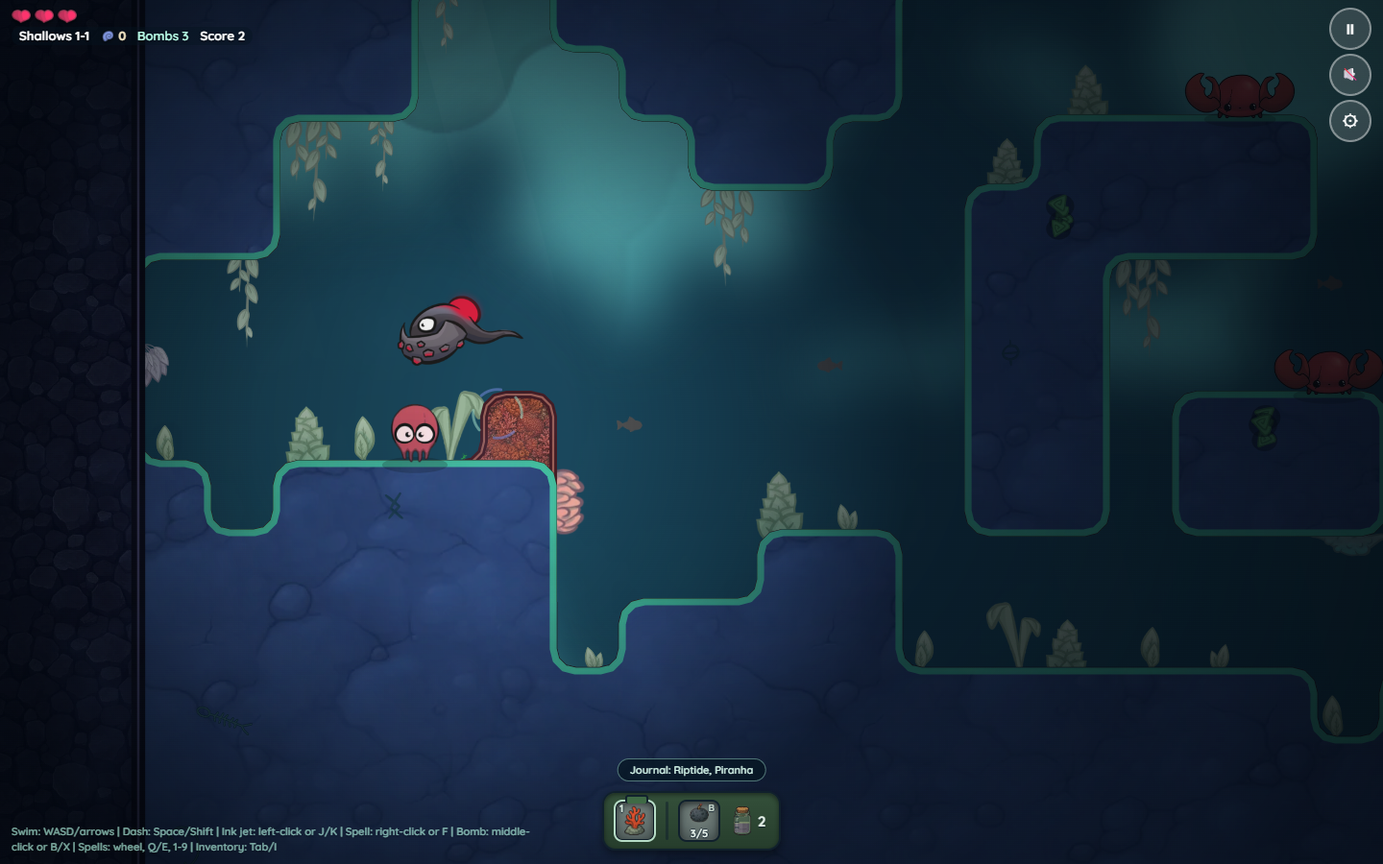
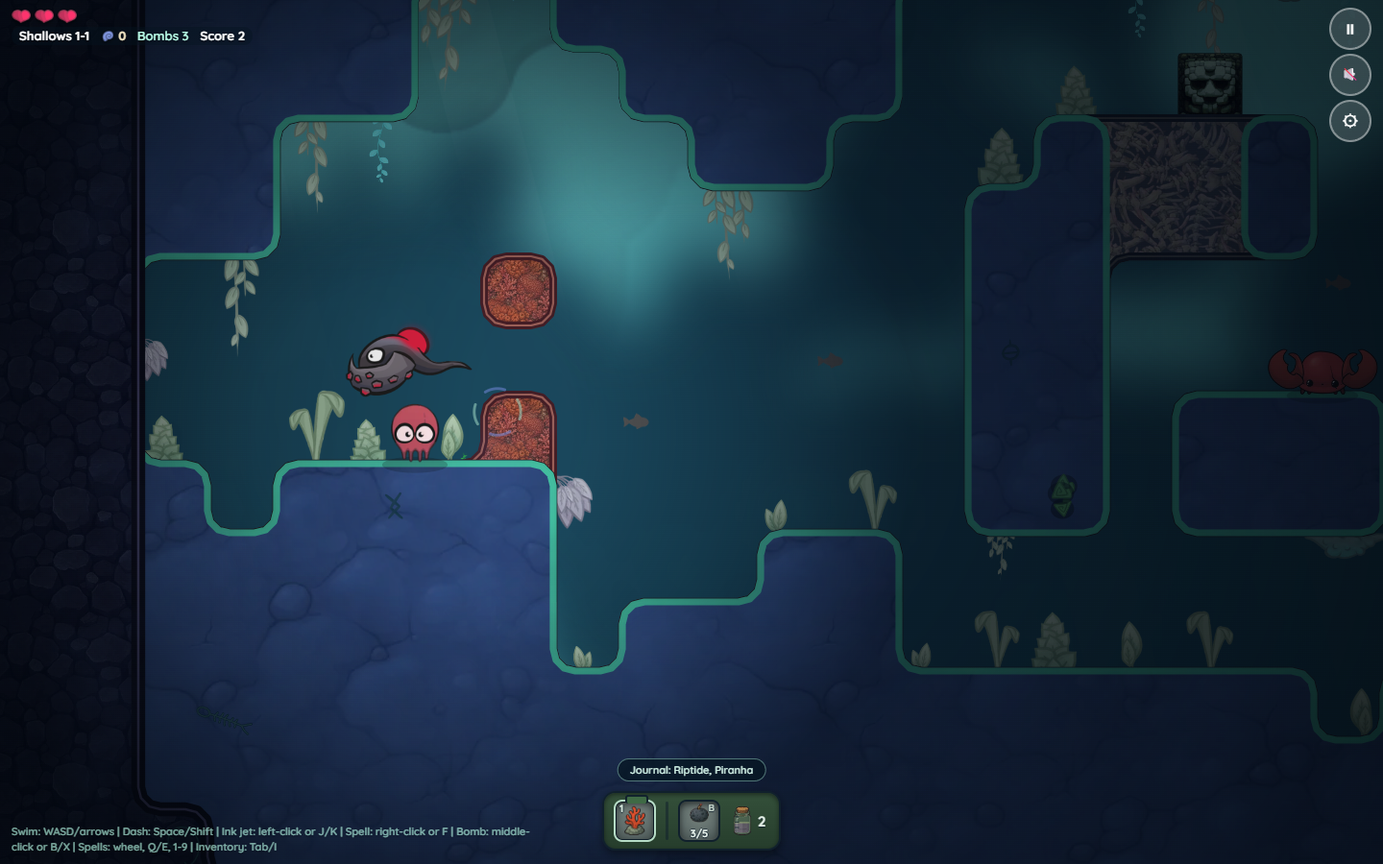
Lure on the infighting lure hook, anchor drawn in the octopus's arms, coral kept out of the generated-materials pair test
Lure (SPELLS-PICK spell 5): a bioluminescent bulb at the cast point for 6 s (Heavy light 4, Lingering 15 s), attracts after 0.6 s through infight.setLure, one at a time, rides jets and Riptides, a blast ends it. Journal entry, rune pedestals offer it, tests and frames.

diff --git a/site/octomancer/play/tests/spell-set.test.js b/site/octomancer/play/tests/spell-set.test.js
@@ -19,6 +19,7 @@ import { SOURCES, resolveHit, pushScale } from '../js/creature-rules.js';
 import { createHotbar } from '../js/hotbar.js';
 import { runeForLevel, takeRune, slotForMod, ownsRune, RUNE_SPELLS, RUNE_MODS } from '../js/runes.js';
 import { setGameView, resetGameView } from '../js/cull.js';
+import { createInfight } from '../js/infight.js';
 
 const DT = 1 / 60;
 const NO_INPUT = { move: { x: 0, y: 0 }, dash: { pressed: false, held: false } };
@@ -47,8 +48,8 @@ export async function runSpellSetTests(assert) {
   setGameView({ x: 15, y: 15, pxPerUnit: 32 }, 1280, 1280); // the whole room is "on screen" (hazards act only in view)
   try {
     // ------------------------------------------------------------ data and price folding
-    assert('spell set: four spells (Ink Cloud, Riptide, Coral Wall, Anchor) and three runes (Heavy, Delayed, Lingering); Lure waits for infighting',
-      ['ink-cloud', 'riptide', 'coral-wall', 'anchor'].every((id) => spellById(id)) && !spellById('lure') && SPELLS.length === 4 &&
+    assert('spell set: five spells (Ink Cloud, Riptide, Coral Wall, Anchor, Lure) and three runes (Heavy, Delayed, Lingering)',
+      ['ink-cloud', 'riptide', 'coral-wall', 'anchor', 'lure'].every((id) => spellById(id)) && SPELLS.length === 5 &&
       ['heavy', 'delayed', 'lingering'].every((id) => modById(id)) && MODS.length === 3 && SLOT.maxMods === 2 && SLOT.castLock === 0.4);
     const rp = resolveSlot(['riptide']);
     assert('Riptide: 5 tiles, half width 1.1, 3 s, 0.8 x JET_ACC, 1 cast', rp.price === 1 && near(rp.length, 5) && near(rp.radius, 1.1) && near(rp.duration, 3) && near(rp.power, 0.8));
@@ -66,7 +67,7 @@ export async function runSpellSetTests(assert) {
     assert('at most two runes per slot: a third is greyed', resolveSlot(['ink-cloud', 'heavy', 'lingering', 'delayed']).greyed.join() === 'delayed');
     {
       let ok = true;
-      const ids = ['ink-cloud', 'riptide', 'coral-wall', 'anchor'], mods = [[], ['heavy'], ['delayed'], ['lingering'], ['heavy', 'delayed'], ['heavy', 'lingering'], ['delayed', 'lingering']];
+      const ids = ['ink-cloud', 'riptide', 'coral-wall', 'anchor', 'lure'], mods = [[], ['heavy'], ['delayed'], ['lingering'], ['heavy', 'delayed'], ['heavy', 'lingering'], ['delayed', 'lingering']];
       for (const s of ids) for (const m of mods) { const p = resolveSlot([s, ...m]); if (!Number.isInteger(p.price) || p.price < 1 || p.price > 3) ok = false; if (p.duration < spellById(s).duration * 0.4 - 1e-6 || p.duration > spellById(s).duration * 3 + 1e-6) ok = false; }
       assert('every slot price is a whole number of casts, never below 1; durations stay within the 0.4-3x clamp', ok);
     }
@@ -238,6 +239,41 @@ export async function runSpellSetTests(assert) {
       b.blast(5.5, 5, 2);
       for (let k = 0; k < 30; k++) b.update(DT);
       assert('a blast inside a cloud blows it out (gone within half a second)', b.count() === 0);
+    }
+
+    // ------------------------------------------------------------ Lure (on the infighting owner's target override, infight.js setLure)
+    {
+      const lp = resolveSlot(['lure']), lh = resolveSlot(['lure', 'heavy']), ll = resolveSlot(['lure', 'lingering']);
+      assert('Lure: light 2.5, 6 s, 1 cast; Heavy light 4; Lingering 15 s', lp.price === 1 && near(lp.radius, 2.5) && near(lp.duration, 6) && near(lh.radius, 4, 1e-5) && near(ll.duration, 15, 1e-5));
+      const world = room(), props = createProps(), hazards = createHazards(props), en = createEnemies(), dm = createDamage();
+      dm.register(en.family); hazards.setDamage(dm);
+      const inf = createInfight(dm, { corpses: () => null, props: () => props });
+      en.setInfight(inf);
+      const fx = createSpellFx({ world, hazards, props, damage: dm, clouds: createInkClouds(), infight: inf });
+      const octo = createOctopus(27, 3); octo.invulnTimer = 1e9; fx.setOcto(octo);
+      const fish = en.spawnAt('piranha', 8, 10, 'open');
+      const boss = en.spawnAt('beholder', 24, 20);
+      const ok = castSpell({ juice: 4 }, ['lure'], { clouds: null, fx, x: 14, y: 16, vx: 0, vy: 0, dirX: 1, dirY: 0 });
+      const step = (n) => { for (let k = 0; k < n; k++) { dm.tick(DT); inf.tick(DT); en.update(DT, 30, octo, world, [], null); hazards.update(DT, 0, octo, world, null); fx.update(DT, octo); } };
+      step(20);
+      const early = inf.lures().length;
+      step(20);
+      assert(`Lure: no pull during its 0.6 s grace, then one lure on the hook (${early} then ${inf.lures().length})`, ok === CAST_OK && early === 0 && inf.lures().length === 1 && fx.lureLive());
+      const d0 = Math.hypot(fish.x - 14, fish.y - 16), b0 = Math.hypot(boss.x - octo.x, boss.y - octo.y);
+      step(240);
+      const d1 = Math.hypot(fish.x - 14, fish.y - 16), b1 = Math.hypot(boss.x - octo.x, boss.y - octo.y), bl = Math.hypot(boss.x - 14, boss.y - 16);
+      assert(`Lure retargets a patrolling piranha (${d0.toFixed(1)} -> ${d1.toFixed(1)} tiles from it)`, d1 < 2 && d1 < d0 - 3);
+      assert(`the Beholder ignores the Lure: it keeps closing on the octopus (${b0.toFixed(1)} -> ${b1.toFixed(1)})`, b1 < b0);
+      step(120);
+      assert('Lure runs out after 6 s and leaves the hook', !fx.lureData.on && inf.lures().length === 0);
+      castSpell({ juice: 4 }, ['lure'], { clouds: null, fx, x: 14, y: 16, vx: 0, vy: 0, dirX: 1, dirY: 0 }); step(50);
+      castSpell({ juice: 4 }, ['lure'], { clouds: null, fx, x: 10, y: 10, vx: 0, vy: 0, dirX: 1, dirY: 0 }); step(50);
+      assert('at most one Lure: the newest replaces it', inf.lures().length === 1 && near(inf.lures()[0].x, 10, 0.3));
+      const gone = fx.blast(10.5, 10, 1.5);
+      assert('a blast on the Lure ends it', gone && inf.lures().length === 0 && !fx.lureData.on);
+      hazards.addTempJet(4, 16, 1, 0, 6, 1.1, 0.8, 3);
+      castSpell({ juice: 4 }, ['lure'], { clouds: null, fx, x: 5, y: 16, vx: 0, vy: 0, dirX: 1, dirY: 0 }); step(90);
+      assert(`a Riptide carries the Lure (x 5 -> ${fx.lureData.x.toFixed(2)})`, fx.lureData.x > 5.5);
     }
 
     // ------------------------------------------------------------ runes

diff --git a/site/octomancer/play/js/main.js b/site/octomancer/play/js/main.js
@@ -94,7 +94,7 @@ import { STAT_ANGERED } from './journal.js';
 import { JUICE, juiceStart, juiceCap, castsOf, addJuice, dropCount, castSpell, spellById, createJuiceDrops, createInkClouds, CAST_OK, CAST_EMPTY, resolveSlot, slotPrice, SLOT } from './spells.js';
 import { createSpellFx } from './spell-fx.js';
 import { runeForLevel, takeRune, runeName, PICKUP_DWELL, PEDESTAL_R } from './runes.js';
-import { drawSpellFx, drawRunePedestal } from './spell-fx-draw.js';
+import { drawSpellFx, drawRunePedestal, drawAnchorHeld } from './spell-fx-draw.js';
 import { drawJuiceDrops, drawInkClouds } from './spells-draw.js';
 import { createInkJet, autoAim, drawReticle, INKJET } from './inkjet.js';
 import { CR_DASH } from './fragile.js';
@@ -289,7 +289,7 @@ let inkClouds = createInkClouds();
 let inkJet = createInkJet();
 if (V2) enemies.setInkClouds(inkClouds);
 // SPELLS-PICK.md: the level side of Riptide, Coral Wall, Anchor and the Delayed motes (spell-fx.js); the rune pedestal of this level (runes.js)
-let spellFx = createSpellFx({ world, hazards, props, damage: V2 ? damage : null, clouds: inkClouds });
+let spellFx = createSpellFx({ world, hazards, props, damage: V2 ? damage : null, clouds: inkClouds, infight: V2 ? infight : null });
 let runeSpot = null;
 let lastAim = { x: 1, y: 0 }; // the facing direction for the J / K ink jet: the last swim direction
 let slurpCool = 0; // s until the next slurp sound may play (many droplets in one step make one sound)
@@ -729,7 +729,7 @@ function step(dt) {
   for (const ev of bombs.events) {
     if (ev.type !== 'exploded') continue;
     blastLog.push(ev.x, ev.y);
-    if (V2) inkClouds.blast(ev.x, ev.y, BOMB_RADIUS); // SPELLS-PICK: a blast inside an ink cloud blows it out
+    if (V2) { inkClouds.blast(ev.x, ev.y, BOMB_RADIUS); spellFx.blast(ev.x, ev.y, BOMB_RADIUS); } // SPELLS-PICK: a blast blows an ink cloud out and ends a Lure
     const bd = Math.hypot(ev.x - octo.x, ev.y - octo.y);
     particles.blastBurst(ev.x, ev.y, bd); sfx.bomb();
     if (V2 && world.fresh && ev.tiles > 0) world.fresh.haze(ev.x, ev.y, ev.tiles); // the silt that hangs over the crater afterwards
@@ -875,7 +875,7 @@ function castSelected(snap, forceAt = null) {
   if (!p) return -1;
   const sp = p.spell;
   // the hub, the tutorial and the rest grotto: no currents or coral (their hazards do not run); a cloud and an Anchor are harmless there
-  if (isSafeState(run) && (sp.effect === 'riptide' || sp.effect === 'coral')) { ui.showToast(sp.name + ' stirs nothing here', 1400); return -1; }
+  if (isSafeState(run) && (sp.effect === 'riptide' || sp.effect === 'coral' || sp.effect === 'lure')) { ui.showToast(sp.name + ' stirs nothing here', 1400); return -1; }
   const mouse = snap.src && snap.src.spell === 'mouse' ? cursorWorld() : null;
   let at, dx = lastAim.x, dy = lastAim.y;
   if (forceAt) at = forceAt;
@@ -916,6 +916,7 @@ function handleSpellFxEvents() {
     else if (ev.type === 'moteFire') particles.pickupSparkle(ev.x, ev.y, '#9dffd8');
     else if (ev.type === 'anchorCrush') { particles.shakeFx(4, 0.2); sfx.thud(); }
     else if (ev.type === 'anchorSmash') { particles.bombDebris(ev.x, ev.y); particles.shakeFx(3, 0.18); sfx.thud(); }
+    else if (ev.type === 'lure' || ev.type === 'lureGone') particles.pickupSparkle(ev.x, ev.y, '#c8ffd8');
     else if (ev.type === 'riptide') { for (let i = 0; i < 4; i++) particles.trailBubble(ev.x + (i - 1.5) * 0.15, ev.y); }
   }
 }
@@ -1134,7 +1135,7 @@ function resetWorld(newSeed, prebuilt = null, deferExtras = false) {
     inkClouds = createInkClouds();
     inkJet = createInkJet();
     if (V2) enemies.setInkClouds(inkClouds);
-    spellFx = createSpellFx({ world, hazards, props, damage: V2 ? damage : null, clouds: inkClouds });
+    spellFx = createSpellFx({ world, hazards, props, damage: V2 ? damage : null, clouds: inkClouds, infight: V2 ? infight : null });
   });
   sim.time = 0;
   entry = null;
@@ -1575,6 +1576,7 @@ function v2PreWall(c, camera, cw, ch) {
 /** r40: people (the hub residents, the diver, the caged critter) and their speech are drawn after the octopus, so it never hides them. */
 function v2People(c, camera, w2s, cw, ch) {
   const lv = world.level, t = sim.time;
+  drawAnchorHeld(c, camera, cw, ch, octo, t); // Anchor: the iron the octopus clutches, over its body
   drawInkClouds(c, camera, cw, ch, inkClouds.data, t, 1); // a thin veil of it over the octopus: it reads as inside the cloud
   if (input.mode() !== 'touch' && input.mouse.seen && !octo.dead && !holdDark) drawReticle(c, input.mouse.x, input.mouse.y, camera.pxPerUnit, t);
   drawV2Labels(); // r42: the portal names, over the octopus

diff --git a/site/octomancer/play/js/spell-fx-draw.js b/site/octomancer/play/js/spell-fx-draw.js
@@ -34,6 +34,23 @@ export function drawSpellFx(ctx, camera, cw, ch, fx, octo, t) {
     const fl = cullFlags('motes', mo.n);
     for (let i = 0; i < mo.n; i++) if (mo.alive[i] && visibleAt(fl, i, mo.x[i], mo.y[i], 0.6)) drawMote(ctx, ox + mo.x[i] * ppu, oy + mo.y[i] * ppu, ppu, t, Math.min(1, mo.t[i] / Math.max(0.01, mo.delay[i])));
   }
+  const lu = fx.lureData;
+  if (lu && lu.on && visibleAt(cullFlags('lure', 1), 0, lu.x, lu.y, lu.light + 0.5)) {
+    // an anglerfish lure: a pale-green bulb on a curved stalk, its light (radius lu.light) pulsing; it swells in over its grace
+    const x = ox + lu.x * ppu, y = oy + lu.y * ppu, k = Math.min(1, lu.t / Math.max(0.05, lu.grace)), fade = Math.min(1, (lu.life - lu.t) / 0.6);
+    const R = lu.light * ppu * (0.6 + 0.4 * k) * (0.92 + 0.08 * Math.sin(t * 3.1));
+    ctx.save();
+    ctx.globalAlpha = fade;
+    const g = ctx.createRadialGradient(x, y, 0, x, y, R);
+    g.addColorStop(0, 'rgba(190,255,215,0.32)'); g.addColorStop(0.35, 'rgba(110,230,190,0.14)'); g.addColorStop(1, 'rgba(60,200,170,0)');
+    ctx.fillStyle = g; ctx.beginPath(); ctx.arc(x, y, R, 0, TAU); ctx.fill();
+    if (!drawSprite(ctx, 'iconLure', x, y + ppu * 0.1, 0, ppu * 0.75, 0.5, 0.5, Math.sin(t * 1.7) * 0.15)) {
+      ctx.strokeStyle = '#3f5a3a'; ctx.lineWidth = Math.max(1, ppu * 0.05);
+      ctx.beginPath(); ctx.moveTo(x - ppu * 0.25, y + ppu * 0.45); ctx.quadraticCurveTo(x - ppu * 0.3, y - ppu * 0.1, x, y); ctx.stroke();
+      ctx.fillStyle = '#d8ffe4'; ctx.beginPath(); ctx.arc(x, y, ppu * 0.12, 0, TAU); ctx.fill();
+    }
+    ctx.restore();
+  }
   const co = fx.coralData;
   if (co.live) {
     const fl = cullFlags('coral', co.n);
@@ -65,25 +82,29 @@ export function drawSpellFx(ctx, camera, cw, ch, fx, octo, t) {
     }
     ctx.restore();
   }
-  if (octo && octo.anchorT > 0 && !octo.dead) {
-    // an old anchor hanging under the body on a short kelp line, bubbles streaming up off it as it drops
-    const x = ox + octo.x * ppu, y = oy + octo.y * ppu, fall = Math.min(1, Math.max(0, octo.vy) / 12);
-    ctx.save();
-    ctx.strokeStyle = '#3f5a3a'; ctx.lineWidth = Math.max(1, ppu * 0.045);
-    ctx.beginPath(); ctx.moveTo(x, y + ppu * 0.15); ctx.quadraticCurveTo(x + ppu * 0.06, y + ppu * 0.3, x, y + ppu * 0.38); ctx.stroke();
-    if (!drawSprite(ctx, 'iconAnchor', x, y + ppu * 0.3, 0, ppu * 0.85, 0.5, 0, Math.sin(t * 3) * 0.08)) {
-      ctx.fillStyle = '#56645c'; ctx.strokeStyle = INK; ctx.lineWidth = Math.max(1, ppu * 0.04);
-      ctx.beginPath(); ctx.rect(x - ppu * 0.04, y + ppu * 0.35, ppu * 0.08, ppu * 0.4); ctx.fill(); ctx.stroke();
-      ctx.beginPath(); ctx.arc(x, y + ppu * 0.68, ppu * 0.22, 0.15, Math.PI - 0.15); ctx.stroke();
-    }
-    ctx.strokeStyle = 'rgba(225,250,255,0.7)'; ctx.lineWidth = Math.max(1, ppu * 0.025);
-    for (let b = 0; b < 5; b++) {
-      const u = (t * (1.2 + fall) + b * 0.21) % 1;
-      ctx.globalAlpha = (1 - u) * (0.3 + 0.7 * fall);
-      ctx.beginPath(); ctx.arc(x + Math.sin(b * 2.3 + t * 3) * ppu * 0.25, y - u * ppu * 1.2, ppu * (0.04 + 0.02 * (b % 2)), 0, TAU); ctx.stroke();
-    }
-    ctx.restore();
+}
+
+/**
+ * Anchor: an old barnacled anchor the octopus clutches in its arms (drawn over the body, after the octopus), bubbles streaming up
+ * off it as it drops. Its flukes end at the body's lower rim, so a body resting on a floor never shows iron sunk in the rock.
+ */
+export function drawAnchorHeld(ctx, camera, cw, ch, octo, t) {
+  if (!octo || !(octo.anchorT > 0) || octo.dead) return;
+  const ppu = camera.pxPerUnit;
+  const x = cw / 2 + (octo.x - camera.x) * ppu, y = ch / 2 + (octo.y - camera.y) * ppu, fall = Math.min(1, Math.max(0, octo.vy) / 12);
+  ctx.save();
+  if (!drawSprite(ctx, 'iconAnchor', x, y + ppu * 0.42, 0, ppu * 0.6, 0.5, 1, Math.sin(t * 3) * 0.06)) {
+    ctx.fillStyle = '#56645c'; ctx.strokeStyle = INK; ctx.lineWidth = Math.max(1, ppu * 0.04);
+    ctx.beginPath(); ctx.rect(x - ppu * 0.04, y - ppu * 0.1, ppu * 0.08, ppu * 0.4); ctx.fill(); ctx.stroke();
+    ctx.beginPath(); ctx.arc(x, y + ppu * 0.2, ppu * 0.2, 0.15, Math.PI - 0.15); ctx.stroke();
   }
+  ctx.strokeStyle = 'rgba(225,250,255,0.7)'; ctx.lineWidth = Math.max(1, ppu * 0.025);
+  for (let b = 0; b < 5; b++) {
+    const u = (t * (1.2 + fall) + b * 0.21) % 1;
+    ctx.globalAlpha = (1 - u) * (0.3 + 0.7 * fall);
+    ctx.beginPath(); ctx.arc(x + Math.sin(b * 2.3 + t * 3) * ppu * 0.25, y - u * ppu * 1.2, ppu * (0.04 + 0.02 * (b % 2)), 0, TAU); ctx.stroke();
+  }
+  ctx.restore();
 }
 
 /** A rune pedestal: the carved stone with the rune floating over it in a faint bioluminescent glow. `spot` = {x, y, id, dwell}. */

diff --git a/site/octomancer/play/js/spell-fx.js b/site/octomancer/play/js/spell-fx.js
@@ -25,7 +25,7 @@ const CRUMBLE_WARN = 1.5;        // s before it crumbles: the coral shakes (spel
  */
 export function createSpellFx(sys) {
   const { world, hazards } = sys;
-  const props = sys.props || null, damage = sys.damage || null;
+  const props = sys.props || null, damage = sys.damage || null, infight = sys.infight || null;
   // ---- coral cells
   const co = {
     n: MAX_CORAL, live: 0,
@@ -48,7 +48,7 @@ export function createSpellFx(sys) {
   /** Things main.js turns into particles and sounds: {type:'coralGrow'|'coralCrumble'|'moteFire'|'anchorCrush'|'anchorSmash'|'riptide', x, y}. */
   const events = [];
   let octo = null; // the octopus record (set by update; Anchor and self casts read it)
-  const stats = { riptides: 0, coralCells: 0, crumbled: 0, motes: 0, anchors: 0, crushes: 0, smashes: 0 };
+  const stats = { riptides: 0, coralCells: 0, crumbled: 0, motes: 0, anchors: 0, crushes: 0, smashes: 0, lures: 0 };
 
   // ---------------------------------------------------------------- Coral Wall
   /** Something sits in cell (tx, ty): the octopus, a creature body, a prop (rubble excepted: it is pushed out). */
@@ -199,6 +199,39 @@ export function createSpellFx(sys) {
     }
   }
 
+  // ---------------------------------------------------------------- Lure
+  // A bioluminescent bulb at the cast point, on the infighting owner's target override (infight.js setLure): patrolling or lost
+  // piranhas, crabs, mantas and hostile NPCs within `reach` go to it instead of their beat. Rooted kinds, the keeper and the Beholder
+  // never read it (their own code does not ask). It attracts only after a short grace, drifts with jets and Riptides, a blast ends it.
+  const lu = { on: 0, x: 0, y: 0, vx: 0, vy: 0, t: 0, life: 0, grace: 0.6, light: 2.5, reach: 7, slot: -1 };
+  function endLure() {
+    if (lu.slot >= 0 && infight) infight.clearLure(lu.slot);
+    lu.on = 0; lu.slot = -1;
+  }
+  function lure(x, y, p) {
+    if (!infight || world.isSolid(x, y)) return false;
+    endLure(); // at most one: the newest replaces it
+    lu.on = 1; lu.x = x; lu.y = y; lu.vx = 0; lu.vy = 0; lu.t = 0; lu.life = p.duration;
+    lu.grace = p.spell.grace || 0.6; lu.light = p.radius; lu.reach = p.spell.reach || 7; // Heavy widens the light (2.5 -> 4), not the pull
+    stats.lures++;
+    events.push({ type: 'lure', x, y });
+    return true;
+  }
+  function stepLure(dt) {
+    if (!lu.on) return;
+    lu.t += dt;
+    if (lu.t >= lu.life) { endLure(); return; }
+    const f = hazards && hazards.forceAt ? hazards.forceAt(lu.x, lu.y) : null;
+    if (f) { lu.vx += f.fx * MOTE_CARRY * dt; lu.vy += f.fy * MOTE_CARRY * dt; }
+    const k = Math.exp(-MOTE_DRAG * dt); lu.vx *= k; lu.vy *= k;
+    const nx = lu.x + lu.vx * dt, ny = lu.y + lu.vy * dt;
+    if (!world.isSolid(nx, ny)) { lu.x = nx; lu.y = ny; } else { lu.vx = lu.vy = 0; }
+    if (lu.t >= lu.grace) {
+      if (lu.slot < 0) lu.slot = infight.setLure(lu.x, lu.y, lu.reach, lu.life - lu.t);
+      else infight.moveLure(lu.slot, lu.x, lu.y);
+    }
+  }
+
   // ---------------------------------------------------------------- Delayed motes
   /** A Delayed cast: a mote drifts off from the cast point (a self spell follows the octopus) and the effect goes off 1.5 s later there. */
   function defer(p, ctx) {
@@ -238,13 +271,18 @@ export function createSpellFx(sys) {
 
   const api = {
     coralData: co, moteData: mo, events, stats,
-    riptide, coral, anchor, defer,
+    riptide, coral, anchor, lure, defer, lureData: lu,
+    /** A blast at (x, y), radius R, ends a Lure it reaches. */
+    blast(x, y, R) { if (lu.on && Math.hypot(lu.x - x, lu.y - y) <= R + 0.3) { endLure(); events.push({ type: 'lureGone', x, y }); return true; } return false; },
+    /** Is the Lure attracting now (past its grace)? */
+    lureLive() { return lu.on === 1 && lu.slot >= 0; },
     canGrow,
     /** One fixed step (after the octopus and the hazards moved). */
     update(dt, o) {
       events.length = 0;
       octo = o;
       stepMotes(dt);
+      stepLure(dt);
       stepCoral(dt);
       stepAnchorLanding();
     },

diff --git a/site/octomancer/play/tests/spell-set-cdp.js b/site/octomancer/play/tests/spell-set-cdp.js
@@ -122,7 +122,20 @@ async function stage(page) {
     check('Heavy + Lingering Riptide: wider (half width 1.76), 4.5 s, the whole jar (3 casts) paid', big.r === 1 && big.rips.length >= 1 && Math.abs(big.rips[big.rips.length - 1].hw - 1.76) < 0.01 && Math.abs(big.rips[big.rips.length - 1].life - 4.5) < 0.01 && big.juice === 0, JSON.stringify(big));
     await sleep(100);
     await page.screenshot({ path: OUT + 'heavy-riptide-1440.png' });
-    await page.screenshot({ path: OUT + 'hotbar-1440.png', clip: { x: 0, y: 0, width: 720, height: 140 } });
+    // ---- Lure: a piranha that lost the octopus swims to its light
+    await sleep(500);
+    const lu = await page.evaluate((at) => {
+      __octo.setSlots([['lure']], 0); __octo.setJuice(12);
+      __octo.teleport(at.x - 2.5, at.y); __octo.step(30);
+      const e = __octo.spawn('piranha', at.x + 2.5, at.y - 1.5);
+      const r = __octo.cast(at.x + 0.5, at.y, 1, 0);
+      __octo.step(150);
+      const f = __octo.enemies().find((q) => q.id === e.id);
+      return { r, lures: __octo.lures(), d: f ? Math.hypot(f.x - (at.x + 0.5), f.y - at.y) : -1, stats: __octo.spells().stats };
+    }, at);
+    check('Lure: a glowing bulb on the infight lure hook, a nearby piranha goes to it', lu.r === 1 && lu.lures.length === 1 && lu.d >= 0 && lu.d < 2.5, JSON.stringify(lu));
+    await sleep(120);
+    await page.screenshot({ path: OUT + 'lure-1440.png' });
     check('desktop: no page errors', page.errs.length === 0, page.errs.join(' | '));
     await page.close();
 
@@ -136,7 +149,7 @@ async function stage(page) {
     await tap(100, 600); await sleep(300);
     const pat = await stage(ph);
     const spellBtn = await ph.evaluate(() => { const r = document.querySelector('#octo-spell-btn').getBoundingClientRect(); return { x: (r.left + r.right) / 2, y: (r.top + r.bottom) / 2 }; });
-    const shots = [['riptide', 'riptide-412', 40], ['coral-wall', 'coral-412', 30], ['anchor', 'anchor-412', 12]];
+    const shots = [['riptide', 'riptide-412', 40], ['coral-wall', 'coral-412', 30], ['anchor', 'anchor-412', 12], ['lure', 'lure-412', 90]];
     for (const [id, name, steps] of shots) {
       await ph.evaluate((id, at) => { __octo.setSlots([[id]], 0); __octo.setJuice(12); __octo.teleport(at.x - 1.5, at.y - (id === 'anchor' ? 1 : 0)); __octo.step(30); }, id, pat);
       // facing right: a short swim right first
@@ -150,6 +163,7 @@ async function stage(page) {
       if (id === 'riptide') ok = after.riptides.length === 1 && Math.abs(after.riptides[0].x - oo.x) < 4 && after.riptides[0].dx > 0.5;
       if (id === 'coral-wall') ok = after.coral > before.coral && after.cells.every((c) => c.tx + 0.5 > oo.x - 0.2);
       if (id === 'anchor') ok = after.anchorT > 0;
+      if (id === 'lure') ok = after.stats.lures > before.stats.lures;
       check('phone: the Spell button casts ' + id + (id === 'anchor' ? ' on the octopus' : ' 1.5 tiles ahead of the facing'), ok, JSON.stringify({ r: after.riptides, cells: after.cells, a: after.anchorT, o: [oo.x, oo.y] }));
       await sleep(150);
       await ph.screenshot({ path: OUT + name + '.png' });

diff --git a/site/octomancer/play/tests/spells.test.js b/site/octomancer/play/tests/spells.test.js
@@ -31,7 +31,7 @@ export async function runSpellTests(assert) {
   // ---------------------------------------------------------------- data
   assert('spells.json: Ink Cloud is the starting spell, costs 1 cast, 4 s, a jar of 3 casts, a full jar at the start',
     START_SPELL === 'ink-cloud' && spellById('ink-cloud').cost === 1 && spellById('ink-cloud').duration === 4 && JUICE.jarCasts === 3 && JUICE.startCasts === 3
-    && SPELLS.length === 4 && juiceCap() === 3 * JUICE.perCast && juiceStart() === juiceCap());
+    && SPELLS.length === 5 && juiceCap() === 3 * JUICE.perCast && juiceStart() === juiceCap());
   {
     let lo = 9, hi = 0;
     for (let k = 0; k < 400; k++) { const n = dropCount(1234, k); lo = Math.min(lo, n); hi = Math.max(hi, n); }
@@ -196,7 +196,7 @@ export async function runSpellTests(assert) {
       const b = castSpell(r, selectedSpell(hb), { clouds: cl, x: 0, y: 0, vx: 0, vy: 0 });
       assert('hotbar: switching back casts Ink Cloud' + ` [${selectedSpell(hb)} ${b} ${r.juice} ${cl.data.r[1]}]`, selectedSpell(hb) === 'ink-cloud' && b === CAST_OK && r.juice === 0 && Math.abs(cl.data.r[1] - spellById('ink-cloud').radius) < 1e-5);
     } finally { remove(); }
-    assert('the test-only row is removed again', !spellById('test-veil') && SPELLS.length === 4);
+    assert('the test-only row is removed again', !spellById('test-veil') && SPELLS.length === 5);
   }
 
   // ---------------------------------------------------------------- drawing (culled, no throw)

diff --git a/site/octomancer/play/tests/materials.test.js b/site/octomancer/play/tests/materials.test.js
@@ -15,7 +15,9 @@ import { createOctopus } from '../js/octopus.js';
 import { artImg, ensureV2Art } from '../js/v2-art.js';
 
 const PAIRS = [];
-for (let a = 0; a < MAT_DRAW_ORDER.length; a++) for (let b = a + 1; b < MAT_DRAW_ORDER.length; b++) PAIRS.push([MAT_DRAW_ORDER[a], MAT_DRAW_ORDER[b]]); // [lower, higher]
+// the generated materials only: coral (6) is grown by a spell, drawn lowest by priority (the draw-order test below); adding its pairs would move
+// every pair down the sheet onto other texture spots, and the dark fish-bone and bedrock rims are too alike to sample there
+for (let a = 0; a < MAT_DRAW_ORDER.length; a++) for (let b = a + 1; b < MAT_DRAW_ORDER.length; b++) if (MAT_DRAW_ORDER[a] !== 6 && MAT_DRAW_ORDER[b] !== 6) PAIRS.push([MAT_DRAW_ORDER[a], MAT_DRAW_ORDER[b]]); // [lower, higher]
 
 /** A small authored-style level (bedrock border) with `paint(put)` filling the inside. */
 function handLevel(W, H, paint) {

diff --git a/site/octomancer/play/js/journal-art.js b/site/octomancer/play/js/journal-art.js
@@ -73,6 +73,7 @@ export const FN = {
   // SPELLS-PICK: the first spell set and its runes (painted icons, round 4 atlas; drawSpellIcon falls back to a carved stone)
   riptide(c, u = 40) { c.save(); c.scale(1 / u, 1 / u); drawSpellIcon(c, 'riptide', 0, 0, 0.85 * u); c.restore(); },
   coralwall(c, u = 40) { c.save(); c.scale(1 / u, 1 / u); drawSpellIcon(c, 'coral-wall', 0, 0, 0.85 * u); c.restore(); },
+  lure(c, u = 40) { c.save(); c.scale(1 / u, 1 / u); drawSpellIcon(c, 'lure', 0, 0, 0.85 * u); c.restore(); },
   anchor(c, u = 40) { c.save(); c.scale(1 / u, 1 / u); drawSpellIcon(c, 'anchor', 0, 0, 0.85 * u); c.restore(); },
   runeheavy(c, u = 40) { c.save(); c.scale(1 / u, 1 / u); drawSpellIcon(c, 'heavy', 0, 0, 0.75 * u); c.restore(); },
   runedelayed(c, u = 40) { c.save(); c.scale(1 / u, 1 / u); drawSpellIcon(c, 'delayed', 0, 0, 0.75 * u); c.restore(); },

diff --git a/site/octomancer/play/js/runes.js b/site/octomancer/play/js/runes.js
@@ -9,8 +9,8 @@
 import { spellById, modById, modApplies, SLOT, START_SPELL } from './spells.js';
 import { addSpell } from './hotbar.js';
 
-/** Every rune a pedestal may hold, spells before modifiers (the order the seeded shuffle starts from). Lure waits for infighting. */
-export const RUNE_SPELLS = ['riptide', 'coral-wall', 'anchor'];
+/** Every rune a pedestal may hold, spells before modifiers (the order the seeded shuffle starts from). Lure rides on infight.js setLure. */
+export const RUNE_SPELLS = ['riptide', 'coral-wall', 'anchor', 'lure'];
 export const RUNE_MODS = ['heavy', 'delayed', 'lingering'];
 export const PICKUP_DWELL = 0.5; // s on the pedestal before the rune is taken (a swim past does not take it)
 export const PEDESTAL_R = 0.75;  // tiles: the octopus is "on" it this close

diff --git a/site/octomancer/play/js/spells.js b/site/octomancer/play/js/spells.js
@@ -113,6 +113,7 @@ export const EFFECTS = {
   riptide(p, ctx) { return !!ctx.fx && ctx.fx.riptide(ctx.x, ctx.y, ctx.dirX, ctx.dirY, p); },
   coral(p, ctx) { return !!ctx.fx && ctx.fx.coral(ctx.x, ctx.y, p); },
   anchor(p, ctx) { return !!ctx.fx && ctx.fx.anchor(p); },
+  lure(p, ctx) { return !!ctx.fx && ctx.fx.lure(ctx.x, ctx.y, p); },
 };
 /**
  * Cast a hotbar slot (its id list, or one spell id) out of the run's jar: CAST_OK (paid and done), CAST_EMPTY (not enough juice:

diff --git a/octomancer-web/V2-PLAN.md b/octomancer-web/V2-PLAN.md
@@ -604,4 +604,4 @@ Also in this pass: giant clams (pearl = 30, the top currency find), Milan's Clam
 
 F = the hand (grab, carry, throw, interact: talk, buy, doors, back rooms, altar). Q/E and the mouse wheel scroll the hotbar. Right click uses the selected hotbar item (cast for spells, use for items, throw for bombs); bombs are a hotbar item. Coordinator defaults for the rest (from CONTROLS-IDEAS.md): middle click quick-bomb; bombs = heavy drop-under-you (no bounce) or aimed sticky urchin-mine, fuse 1.6 s, blast 2.0 at true radius; pots shield, corpses don't; stunned creatures carryable; no Ink Jet while carrying; corpse altar; doors on F only; phone Spell button morphs to Grab. Spells first set per SPELLS-PICK.md (Ink Cloud, Riptide, Coral Wall, Anchor, Lure last; Heavy, Delayed, Lingering), defaults: Coral crumbles at 25 s, phone aim 1.5 tiles ahead, Lure waits for infighting. Build order: hand + bombs (now) -> spells (after unified creature rules) -> altar and back rooms (after the hand).
 
-- **Status (2026-10-08, spells owner):** the first set is built per SPELLS-PICK.md, minus Lure. Ink Cloud now rides jets and Riptides and a blast blows it out; Riptide (a temporary `HZ_JET` in any direction, `hazards.addTempJet`, source `riptide`, the keeper at half force); Coral Wall (`MAT_CORAL` = 6, grows 3 cells up over 0.4 s, skips bodies, the border, the shop and jet streams, refuses a blocked cast for free, crumbles after 25 s; `js/spell-fx.js`); Anchor (`octo.anchorT`, `startAnchor`; no dash or swim-up, immune to jet, blast and knock impulses, crushes at >= 6 u/s through source `anchor`, smashes timber, bone and coral); runes Heavy, Delayed (motes, max 4) and Lingering, two per slot, whole-cast prices with a floor of 1 (`spells.js resolveSlot`), one 0.4 s cast lock. Found on one rune pedestal per Shallows level (`js/runes.js`, the `stone` sprite, swim onto it and stay 0.5 s; `main.js tryTakeRune()` is the one call to retarget to the hand's F). Right click / F / the phone Spell button cast; keys and phones aim Riptide and Coral Wall 1.5 tiles along the facing, Ink Cloud and Anchor on the octopus. **Lure is left out:** the infighting owner's target-override hook is not on master yet. Art: round 4 atlas (`sprites-r4.webp`: four icons, three rune stones) and `mat-coral.webp`, generated in Milan's style. Tests: `tests/spell-set.test.js` (on the test page), `node tests/spell-set-cdp.js <port>` (frames in `octomancer-web/night/spells-*.png`).
+- **Status (2026-10-08, spells owner):** the first set is built per SPELLS-PICK.md, Lure included. Ink Cloud now rides jets and Riptides and a blast blows it out; Riptide (a temporary `HZ_JET` in any direction, `hazards.addTempJet`, source `riptide`, the keeper at half force); Coral Wall (`MAT_CORAL` = 6, grows 3 cells up over 0.4 s, skips bodies, the border, the shop and jet streams, refuses a blocked cast for free, crumbles after 25 s; `js/spell-fx.js`); Anchor (`octo.anchorT`, `startAnchor`; no dash or swim-up, immune to jet, blast and knock impulses, crushes at >= 6 u/s through source `anchor`, smashes timber, bone and coral); runes Heavy, Delayed (motes, max 4) and Lingering, two per slot, whole-cast prices with a floor of 1 (`spells.js resolveSlot`), one 0.4 s cast lock. Found on one rune pedestal per Shallows level (`js/runes.js`, the `stone` sprite, swim onto it and stay 0.5 s; `main.js tryTakeRune()` is the one call to retarget to the hand's F). Right click / F / the phone Spell button cast; keys and phones aim Riptide and Coral Wall 1.5 tiles along the facing, Ink Cloud and Anchor on the octopus. Lure (built last, on the infighting owner's `infight.setLure` hook): a glowing bulb for 6 s at the cast point, attracts after 0.6 s, one at a time, rides jets and Riptides, a blast ends it; the hook pulls every patrolling or lost piranha, crab, manta and hostile NPC within 7 tiles (no cap of 6: the hook has none), and the cannon aiming at it and waking dormant clams and tentacles are not built. Art: round 4 atlas (`sprites-r4.webp`: four icons, three rune stones) and `mat-coral.webp`, generated in Milan's style. Tests: `tests/spell-set.test.js` (on the test page), `node tests/spell-set-cdp.js <port>` (frames in `octomancer-web/night/spells-*.png`).
